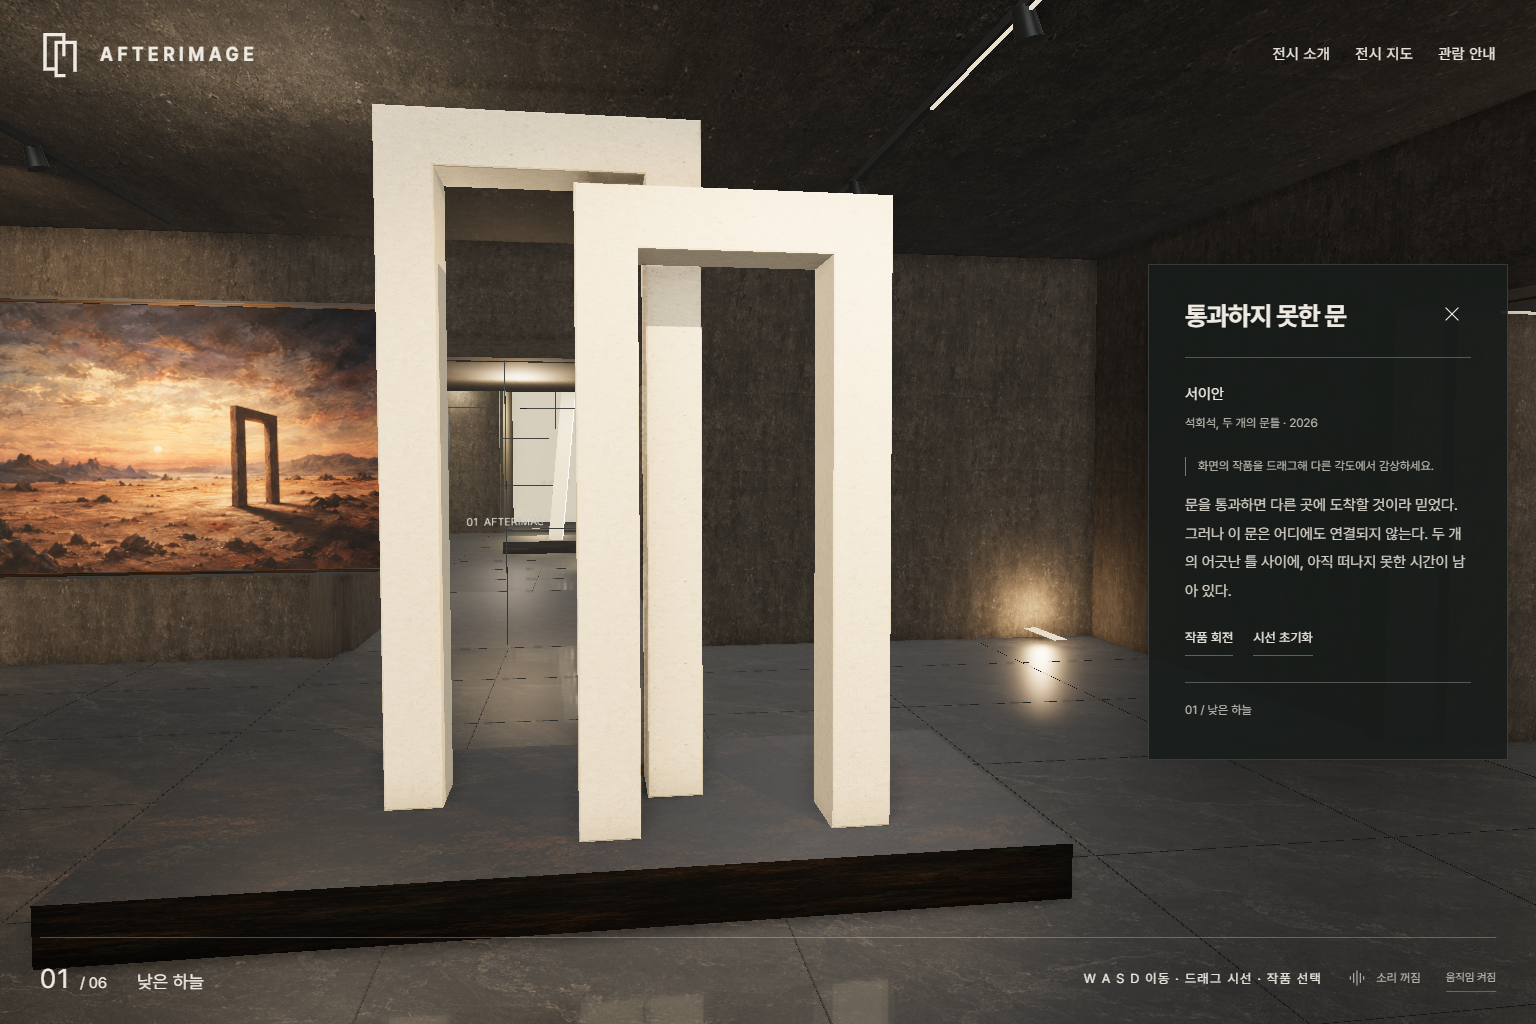
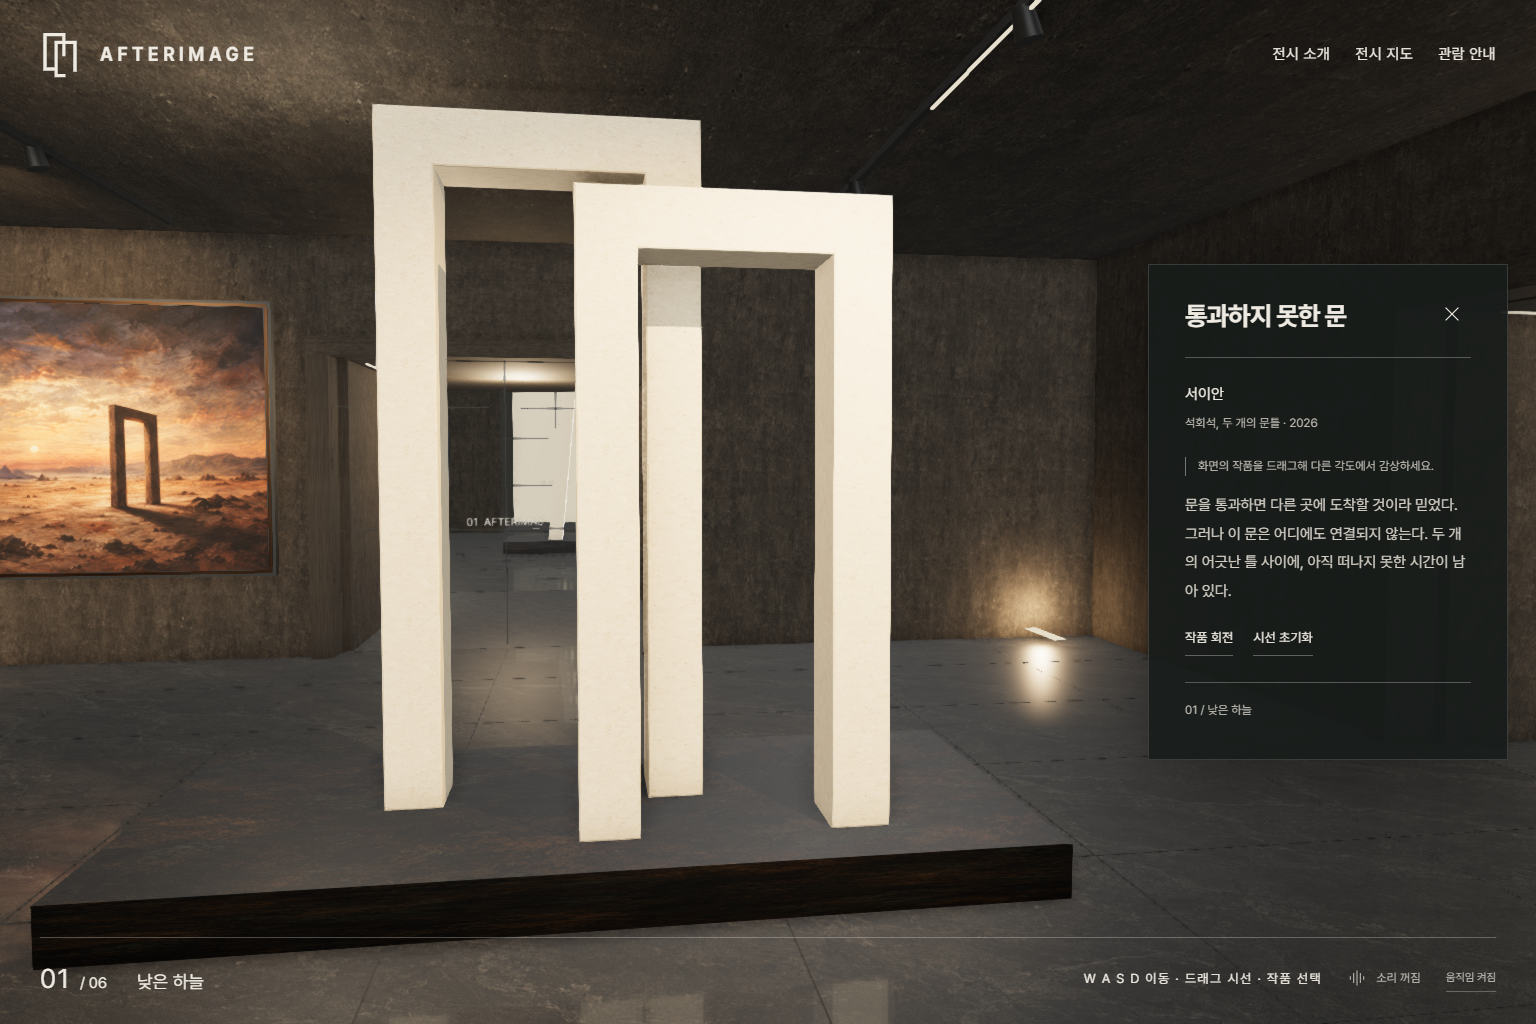
Refresh process screenshots to show current room 01 artwork placement

Changed region(s): [[0.0, 0.2812, 0.25, 0.5625], [0.2812, 0.375, 0.375, 0.625], [0.0, 0.8438, 0.0312, 0.875]]

diff --git a/src/Introduction.jsx b/src/Introduction.jsx
@@ -5,7 +5,7 @@ import {useCaseMotion} from './use-case-motion';
 import './case-study.css';
 const LogoStudy=lazy(()=>import('./LogoStudy'));
 const chapters=['개요','과제와 목표','콘셉트와 아이덴티티','디자인 시스템','경험 흐름과 화면','인터랙션과 검증'];
-const shot=id=>assetUrl(`/process/room-${String(id+1).padStart(2,'0')}.png`);
+const shot=id=>assetUrl(`/process/room-${String(id+1).padStart(2,'0')}.png${id===0?'?v=door-clear-v1':''}`);
 function Plan({selected,onSelect}){return <svg className="case-plan" viewBox="0 0 620 270" role="img" aria-label="01부터 06까지 복도로 연결된 순환형 전시"><path d="M85 72H535V198H85Z" fill="none" stroke="currentColor" strokeOpacity=".3" strokeWidth="15"/>{rooms.map(r=>{const x=85+r.x/22*225,y=72-r.z/22*126;return <g key={r.id} onClick={()=>onSelect(r.id)}><rect x={x-49} y={y-40} width="98" height="80" fill={selected===r.id?'#eeeae2':'#181a19'} stroke="#bcb9b1"/><text x={x} y={y+7} textAnchor="middle" fill={selected===r.id?'#181a19':'#eeeae2'}>{r.number}</text></g>;})}</svg>;}
 export default function Introduction({onClose,onEnter,onGo,ready,failed,sound}){
  const ref=useRef(null),[active,setActive]=useState(0),[selected,setSelected]=useState(0);
@@ -23,7 +23,7 @@ export default function Introduction({onClose,onEnter,onGo,ready,failed,sound}){
    <section className="case-section" data-chapter="2">{title(2,'IDENTITY','겹쳐진 문, 남겨진 형태.')}<div className="case-two"><p className="case-lead">본 장면과 남은 장면 사이.<br/>두 개의 어긋난 문틀.</p><p>잔상을 겹친 프레임으로 표현했습니다. 화면의 마크, 워드마크와 공간의 입체 사인은 같은 형태를 공유합니다. 이미지와 3D 파일을 따로 내려받아 다른 매체에서도 사용할 수 있습니다.</p></div><div className="case-identity"><div><img src={assetUrl('/logo.svg')} alt="두 개의 어긋난 문틀과 AFTERIMAGE 워드마크"/><span>VECTOR / SVG</span></div><div className="case-logo-study"><Suspense fallback={<p>입체 로고 준비 중</p>}><LogoStudy/></Suspense><span>3D / 천천히 회전 · 드래그하여 감상</span></div></div><div className="case-downloads"><a href={assetUrl('/logo.svg')} download>SVG 로고 저장</a><a href={assetUrl('/logo.glb')} download>3D 로고 저장</a></div><div className="case-concept-pair"><img src={shot(0)} alt="실제로 구현된 두 문틀 조각" loading="lazy"/><p>다음 장면을 떠올리는 입구.<br/>로고와 조각을 하나의 공간 언어로 연결했습니다.</p></div></section>
    <section className="case-section" data-chapter="3">{title(3,'DESIGN SYSTEM','공간은 풍부하게, 화면은 차분하게.')}<div className="case-palette">{[['#181A19','Charcoal'],['#EEEAE2','Ivory'],['#BCB9B1','Muted'],['#C3A379','Bronze / 작품'],['#426393','Blue / 작품']].map(([hex,label])=><div key={hex}><i style={{background:hex}}/><span>{label}</span><small>{hex}</small></div>)}</div><div className="case-type"><div><span>TYPOGRAPHY</span><h3>Pretendard</h3><p>작품 설명과 조작 안내를 명확하게 전달하는 글꼴.</p></div><div><p style={{fontWeight:900}}>잔상 AFTERIMAGE <small>Black / 900</small></p><p style={{fontWeight:700}}>여섯 개의 장면 <small>Bold / 700</small></p><p>서두르지 않고, 원하는 방향으로. <small>Regular / 400</small></p></div></div><div className="case-component-study"><span>COMPONENTS IN USE</span><button className="entry" disabled={!ready||failed} onClick={onEnter}>전시 입장</button><button className="case-outline" disabled={!ready||failed} onClick={()=>onGo(selected)}>선택한 방 관람</button><button className="case-text" onClick={sound.toggle} aria-pressed={sound.enabled}>{sound.enabled?'소리 끄기':'소리 켜기'}</button></div></section>
    <section className="case-section" data-chapter="4">{title(4,'EXPERIENCE','하나의 입구, 여러 방식의 관람.')}<ol className="case-flow"><li><span>01</span>전시 입장</li><li><span>02</span>걷기 · 둘러보기</li><li><span>03</span>작품 선택</li><li><span>04</span>조각 회전 · 회화 확대</li></ol><p className="case-flow-note">전시 지도는 언제든 원하는 방이나 작품으로 이동하는 또 하나의 입구입니다.</p><div className="case-room-preview"><div><Plan selected={selected} onSelect={setSelected}/><div className="case-room-tabs" aria-label="미리 볼 전시실">{rooms.map(r=><button key={r.id} aria-pressed={selected===r.id} onClick={()=>setSelected(r.id)}>{r.number}<span>{r.title}</span></button>)}</div></div><figure><img key={selected} src={shot(selected)} alt={`${rooms[selected].number} ${rooms[selected].title} 실제 렌더링`} loading="lazy"/><figcaption><div><span>{rooms[selected].number} / 06</span><h3>{rooms[selected].title}</h3><small>{rooms[selected].en}</small></div><button className="case-outline" disabled={!ready||failed} onClick={()=>onGo(selected)}>이 방 관람</button></figcaption></figure></div></section>
-   <section className="case-section" data-chapter="5">{title(5,'INTERACTION','움직임이 남기는 감각.')}<div className="case-interaction-screens"><figure><img src={assetUrl('/process/desktop-inspector.png')} alt="실제 데스크톱 조각 감상 화면" loading="lazy"/><figcaption><b>01 — 작품을 드래그하고 회전하기</b><p>시선과 작품 회전에 감속을 적용했습니다. 시선 초기화와 회전 정지는 항상 직접 선택할 수 있습니다.</p></figcaption></figure><figure><img src={assetUrl('/process/mobile-walk.png')} alt="모바일 화면의 이동 패드와 3D 전시" loading="lazy"/><figcaption><b>02 — 두 손으로 공간을 둘러보기</b><p>왼쪽은 이동, 오른쪽은 시선. 작은 화면에서도 작품 선택과 전시 지도를 함께 제공합니다.</p></figcaption></figure></div><div className="case-sound-study"><div><h3>03 — 방마다 다른 여운</h3><p>전시를 위해 만든 앰비언트 선율과 발소리.<br/>소리는 관람자가 켤 때 시작합니다.</p></div><button className="case-outline" onClick={sound.toggle} aria-pressed={sound.enabled}>{sound.enabled?'소리 끄기':'소리 켜기'}</button><label htmlFor="case-volume">음량 <output>{Math.round(sound.volume*100)}%</output><input id="case-volume" type="range" min="0" max="1" step=".01" value={sound.volume} onChange={e=>sound.changeVolume(Number(e.target.value))}/></label>{sound.error&&<p role="status">{sound.error}</p>}</div><div className="case-validation"><span>IMPLEMENTATION REVIEW</span><p>데스크톱·태블릿·모바일 크기에서 방 이동, 드래그와 회전, 회화 확대, 소리 조절을 점검했습니다. 작은 화면의 가로 넘침과 입장 위치의 이동 문제를 수정하고, 움직임 감소 설정에서도 관람 기능을 사용할 수 있도록 했습니다.</p><p className="case-note">현재 주름의 조형 디테일과 공간의 조명에는 최초 시안과 차이가 남아 있습니다. 이 프로젝트의 시안은 제작 방향을 보여주는 이미지이며, 실제 전시 화면과 구분됩니다.</p></div></section>
+   <section className="case-section" data-chapter="5">{title(5,'INTERACTION','움직임이 남기는 감각.')}<div className="case-interaction-screens"><figure><img src={assetUrl('/process/desktop-inspector.png?v=door-clear-v1')} alt="실제 데스크톱 조각 감상 화면" loading="lazy"/><figcaption><b>01 — 작품을 드래그하고 회전하기</b><p>시선과 작품 회전에 감속을 적용했습니다. 시선 초기화와 회전 정지는 항상 직접 선택할 수 있습니다.</p></figcaption></figure><figure><img src={assetUrl('/process/mobile-walk.png?v=door-clear-v1')} alt="모바일 화면의 이동 패드와 3D 전시" loading="lazy"/><figcaption><b>02 — 두 손으로 공간을 둘러보기</b><p>왼쪽은 이동, 오른쪽은 시선. 작은 화면에서도 작품 선택과 전시 지도를 함께 제공합니다.</p></figcaption></figure></div><div className="case-sound-study"><div><h3>03 — 방마다 다른 여운</h3><p>전시를 위해 만든 앰비언트 선율과 발소리.<br/>소리는 관람자가 켤 때 시작합니다.</p></div><button className="case-outline" onClick={sound.toggle} aria-pressed={sound.enabled}>{sound.enabled?'소리 끄기':'소리 켜기'}</button><label htmlFor="case-volume">음량 <output>{Math.round(sound.volume*100)}%</output><input id="case-volume" type="range" min="0" max="1" step=".01" value={sound.volume} onChange={e=>sound.changeVolume(Number(e.target.value))}/></label>{sound.error&&<p role="status">{sound.error}</p>}</div><div className="case-validation"><span>IMPLEMENTATION REVIEW</span><p>데스크톱·태블릿·모바일 크기에서 방 이동, 드래그와 회전, 회화 확대, 소리 조절을 점검했습니다. 작은 화면의 가로 넘침과 입장 위치의 이동 문제를 수정하고, 움직임 감소 설정에서도 관람 기능을 사용할 수 있도록 했습니다.</p><p className="case-note">현재 주름의 조형 디테일과 공간의 조명에는 최초 시안과 차이가 남아 있습니다. 이 프로젝트의 시안은 제작 방향을 보여주는 이미지이며, 실제 전시 화면과 구분됩니다.</p></div></section>
    <div className="case-end"><p>여섯 개의 방, 당신의 속도로.<small>작품과 작가는 가상입니다. 회화·시안은 AI로 제작했으며, 공간·조각·상호작용은 코드로 구현했습니다.</small></p><button className="entry" disabled={!ready||failed} onClick={()=>onGo(0)}>처음부터 관람</button></div>
   </div>
  </section>;
